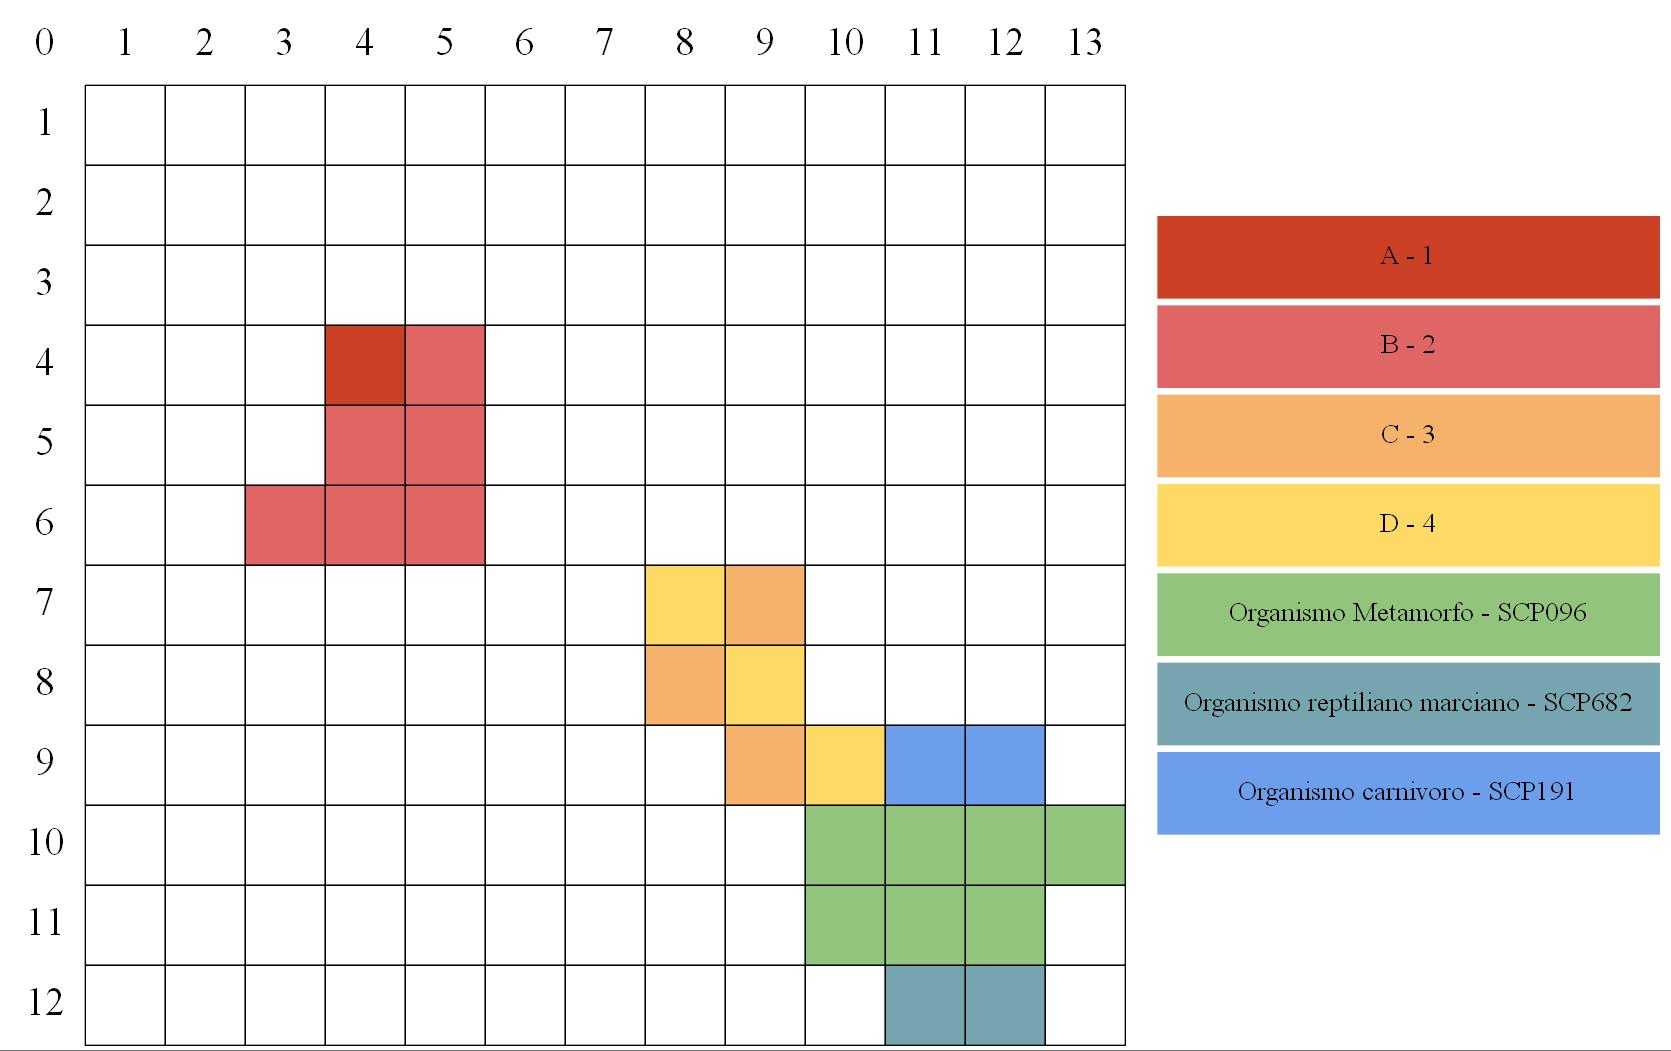
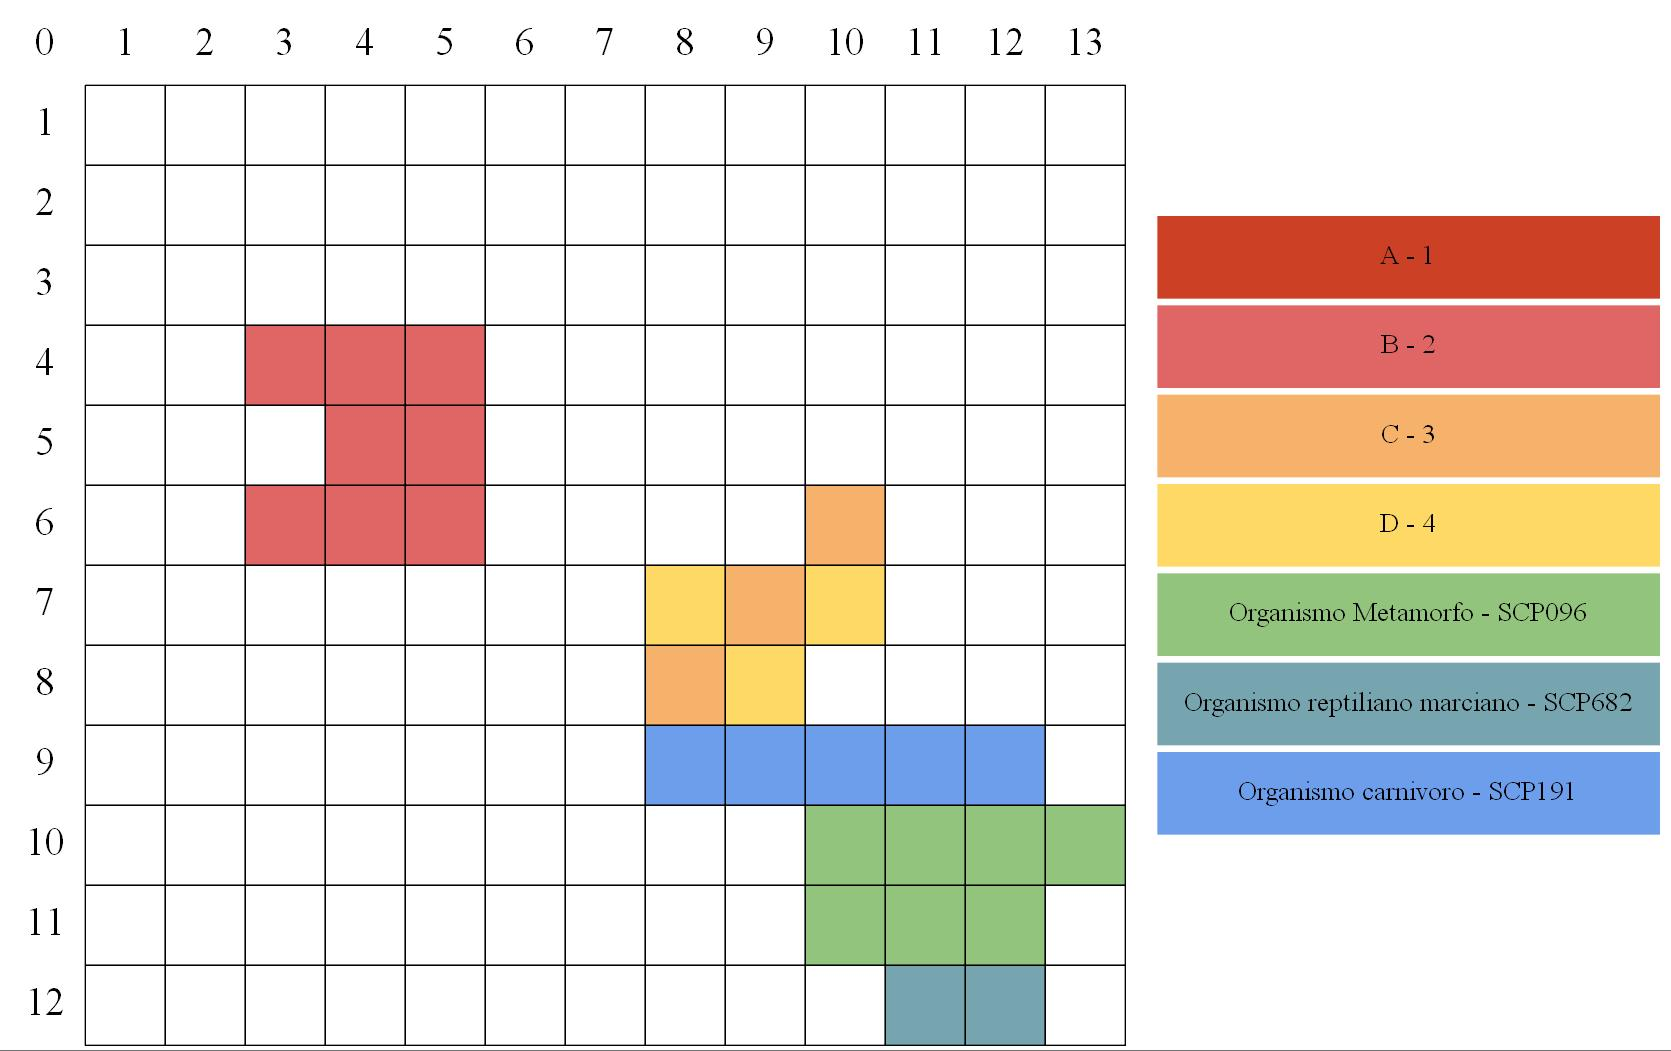
generated images displayed in an html

Changed region(s): [[0.3734, 0.6698, 0.529, 0.7916], [0.1245, 0.3045, 0.249, 0.3958], [0.4668, 0.4567, 0.529, 0.6394]]

diff --git a/Reports/Index.html b/Reports/Index.html
@@ -6,7 +6,19 @@
     <meta name="viewport" content="width=device-width, initial-scale=1.0">
     <title>Document</title>
 </head>
+<style>
+    @import url('https://fonts.googleapis.com/css2?family=Montserrat:wght@400;500&display=swap');
+
+    .title{
+        font-size: 2rem;
+        font-family: 'Montserrat', sans-serif;
+    }
+</style>
 <body>
-    
+    <h1 class="title">Muestra de Referencia</h1>
+    <img src="img/Muestra.jpg" alt="Muestra" width="75%">
+    <br>
+    <h1 class="title">Nueva Muestra</h1>
+    <img src="img/Resultado.jpg" alt="Resultado" width="90%">
 </body>
 </html>
